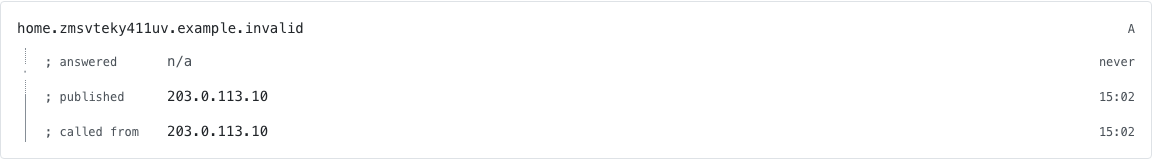
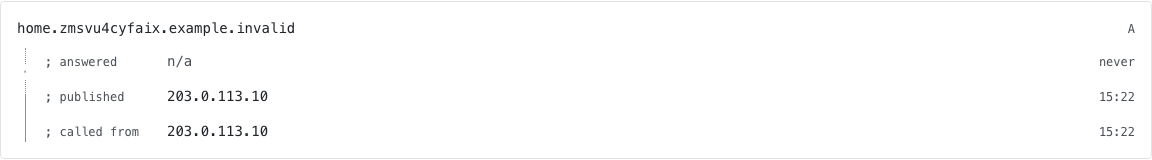
Three specs were waiting on this harness; running them found four things
Rebased onto `0e5885a` — #88, #89 and #90 all landed underneath — and the
three specs those issues wrote against this harness but could not run are now
collected and green. That was the real acceptance test of the convention, and
it produced four findings, three of them adaptations and one of them a guard
this repo already knew it needed everywhere else.

**1. `check-bundle-fresh`, and the run that made the case for it.** A plain
`docker compose up -d --build` built an image carrying the newly merged UI,
tagged it, and left the containers running the previous one. Six specs failed
against a UI that was correct and merged; the served bundle was 801,320 bytes
where the image held 815,012. This is `check-fresh`'s missing fourth guard —
`tests/`, `backend/` and the installed package each have one, and the host
bundle, which is baked into the same image the same way, had none. It hashes
the file inside the image with the container's own interpreter and the bytes
served over the published port with the host's, prints both digests on a
mismatch, and `e2e-up` also `--force-recreate`s api and worker so the
detection has a prevention in front of it. Proved to bite by appending seven
bytes to the served file: `815012` vs `815020`, refused.

Worth stating plainly: the specs caught it only because they exercised the new
markup. Had they not, the run would have been **green about the wrong bundle**.

**2. `loginAsSuperAdmin` was missing.** #90's spec imports it; atrium's
[…]

Changed region(s): [[0.0625, 0.125, 0.2812, 0.2188], [0.9688, 0.8125, 1.0, 0.8438], [0.9688, 0.5938, 1.0, 0.625]]

diff --git a/frontend/tests-e2e/resolution-strip.spec.ts b/frontend/tests-e2e/resolution-strip.spec.ts
@@ -14,6 +14,10 @@ import {
   uniqueDeviceName,
   uniqueZoneName,
 } from './helpers';
+import {
+  PUBLISHES_NOWHERE,
+  WIRE_CONSEQUENCE,
+} from '../src/tenant/ZoneStatus';
 
 /**
  * Spec 2 of the floor, and the one this milestone exists for: the
@@ -63,6 +67,13 @@ test.describe('the §3.3.1 walk, through the UI', () => {
     const fqdn = `home.${zone}`;
 
     // --- 1. a zone, through the UI ---------------------------------
+    //
+    // Deliberately with **no** provider, which since #88 is a departure
+    // from the form's own reading order rather than the thing that
+    // happens when you fill in the only field on offer: the link has to
+    // be taken and the consequence confirmed. The walk takes it because
+    // the provider it needs is not one the catalogue offers (see step
+    // 2), and because the zero-provider state is worth rendering once.
     await page.goto(DOMAINS_PATH);
     await expect(page.getByTestId('domains-empty')).toBeVisible({
       timeout: 15_000,
@@ -71,22 +82,41 @@ test.describe('the §3.3.1 walk, through the UI', () => {
     const zoneModal = page.getByRole('dialog');
     await expect(zoneModal).toBeVisible();
     await zoneModal.getByTestId('zone-name').fill(zone);
-    await zoneModal.getByTestId('zone-submit').click();
+    // Neither the consequence nor its confirm button exists until the
+    // link is taken.
+    await expect(zoneModal.getByTestId('zone-later-warning')).toHaveCount(0);
+    await zoneModal.getByTestId('zone-later-link').click();
+    await expect(zoneModal.getByTestId('zone-later-warning')).toBeVisible();
+    await zoneModal.getByTestId('zone-later-submit').click();
+    await expect(page.getByRole('dialog')).toHaveCount(0);
 
     const zoneRow = page.getByTestId(`domain-${zone}`);
     await expect(zoneRow).toBeVisible();
-    // §10.1: a zone with no provider is the *exceptional* row, stated
-    // in the operator's terms rather than the protocol's. This is that
-    // sentence, rendered — the state the create form can leave behind
-    // in one click.
-    await expect(zoneRow).toContainText(
-      'No provider bound yet — updates for this zone answer 911.',
+    // §10.1: a zone with no provider is the *exceptional* row, in the
+    // operator's terms rather than the protocol's. Asserted against
+    // `ZoneStatus`'s own exported strings — a spec that retyped them
+    // would keep passing after the product stopped saying them.
+    await expect(zoneRow).toHaveAttribute('data-diverged', 'true');
+    await expect(page.getByTestId(`nowhere-${zone}`)).toContainText(
+      PUBLISHES_NOWHERE,
+    );
+    await expect(page.getByTestId(`nowhere-why-${zone}`)).toContainText(
+      WIRE_CONSEQUENCE,
+    );
+    await expect(page.getByTestId(`providers-${zone}`)).toHaveText(
+      '0 providers',
     );
 
     // --- 2. the provider ------------------------------------------
+    // On the zone's own route since #88 — §12's linkable destination,
+    // reached the way an operator reaches it, by clicking the zone.
+    await page.getByTestId(`open-domain-${zone}`).click();
+    await expect(page.getByTestId(`zone-${zone}`)).toBeVisible();
+    await expect(page.getByTestId('zone-no-providers')).toBeVisible();
+
     // The modal, opened and read: it is the surface an operator uses,
     // and the catalogue it offers is a property of the build.
-    await page.getByTestId(`add-backend-${zone}`).click();
+    await page.getByTestId('zone-add-backend').click();
     const providerModal = page.getByRole('dialog');
     await expect(providerModal).toBeVisible();
     await providerModal.getByTestId('backend-service').click();
@@ -113,12 +143,24 @@ test.describe('the §3.3.1 walk, through the UI', () => {
     const binding = await bindScriptedBackend(page.request, domainId!);
     expect(binding.credentials_set).toBe(true);
 
-    // …and read back through the UI, which is what an operator sees.
+    // …and read back through the UI, which is what an operator sees:
+    // on the zone's route, and — the mark being a *measurement* rather
+    // than a decoration — gone from the list row.
     await page.reload();
-    await expect(zoneRow.getByTestId(`backend-${binding.backend_type}`))
-      .toBeVisible();
-    await expect(zoneRow).toContainText('credential stored');
-    await expect(zoneRow).not.toContainText('No provider bound yet');
+    await expect(
+      page.getByTestId(`backend-${binding.backend_type}`),
+    ).toBeVisible();
+    await expect(page.getByTestId(`credentials-${binding.id}`)).toHaveText(
+      'credential stored',
+    );
+    await expect(page.getByTestId('zone-no-providers')).toHaveCount(0);
+
+    await page.goto(DOMAINS_PATH);
+    await expect(zoneRow).toHaveAttribute('data-diverged', 'false');
+    await expect(page.getByTestId(`nowhere-${zone}`)).toHaveCount(0);
+    await expect(page.getByTestId(`providers-${zone}`)).toHaveText(
+      '1 provider',
+    );
 
     // --- 3. a device, through the UI ------------------------------
     await page.goto(DEVICES_PATH);
@@ -152,10 +194,15 @@ test.describe('the §3.3.1 walk, through the UI', () => {
     const nameModal = page.getByRole('dialog');
     await expect(nameModal).toBeVisible();
     await chooseFromSelect(page, 'hostname-zone', zone);
-    await nameModal.getByTestId('hostname-name').fill(fqdn);
+    // Since #90 the zone is a suffix and not a retype: the bare label
+    // goes in the field, the zone is rendered beside it, and `will
+    // send:` is the one line that shows what composition did.
+    await expect(nameModal.getByTestId('hostname-suffix')).toHaveText(
+      `.${zone}`,
+    );
+    await nameModal.getByTestId('hostname-name').fill('home');
     await chooseFromSelect(page, 'hostname-device', deviceName);
-    // The preview is the one line that shows what will be sent.
-    await expect(nameModal.getByTestId('hostname-preview')).toContainText(fqdn);
+    await expect(nameModal.getByTestId('hostname-will-send')).toHaveText(fqdn);
     await nameModal.getByTestId('hostname-submit').click();
     await expect(page.getByTestId(`hostname-${fqdn}`)).toBeVisible();
 

diff --git a/frontend/tests-e2e/zone-provider.spec.ts b/frontend/tests-e2e/zone-provider.spec.ts
@@ -101,6 +101,13 @@ test.describe('#88 — zones and providers are one object', () => {
     // reading order — §10.1's wireframe, rendered.
     await modal.getByTestId('zone-name').fill(zone);
     await expect(modal.getByTestId('backend-service')).toBeVisible();
+    // Pick the provider explicitly. `BackendForm` defaults to
+    // `providers[0]`, and `known_services()` is **sorted**, so the
+    // default is `hetzner` — whose one credential key is
+    // `hetzner_api_token`, not the route53 pair below. Adjusted by #91
+    // when this spec was first run: it is a fact about the catalogue's
+    // order, which nothing in the file could have known unrun.
+    await chooseFromSelect(page, 'backend-service', 'route53');
     // The credential fields come from `GET /providers`, i.e. from
     // `BaseProvider.REQUIRED_CREDENTIALS`. This is `BackendForm`, not a
     // create-only copy of it.
@@ -245,6 +252,9 @@ test.describe('#88 — zones and providers are one object', () => {
     const second = page.getByRole('dialog');
     await expect(second).toBeVisible();
     await second.getByTestId('zone-name').fill(zoneWorking);
+    // Same reason as above: the default provider is the catalogue's
+    // first, sorted, which is not route53.
+    await chooseFromSelect(page, 'backend-service', 'route53');
     for (const [key, value] of Object.entries(DEMO_CREDENTIAL)) {
       await second.getByTestId(`credential-${key}`).fill(value);
     }

diff --git a/frontend/tests-e2e/helpers.ts b/frontend/tests-e2e/helpers.ts
@@ -108,9 +108,27 @@ async function syncCookies(page: Page): Promise<void> {
 }
 
 /** Log in as the seeded super_admin. */
-export async function loginAsAdmin(page: Page): Promise<void> {
+export async function loginAsSuperAdmin(page: Page): Promise<void> {
   const { email, password, totpSecret } = requiredAdminEnv();
   await loginAndPassTOTP(page, email, password, totpSecret);
+}
+
+/**
+ * Alias of {@link loginAsSuperAdmin} for specs whose dependency is "any
+ * admin who holds the permission" rather than super-admin specifically.
+ * `make e2e-up` seeds one account holding both roles, so the two are
+ * indistinguishable at the API level and the alias only keeps a spec's
+ * intent readable.
+ *
+ * Both names exist because atrium's `helpers.ts` exports both, and the
+ * point of copying its vocabulary is that a spec written against one
+ * harness compiles against the other. That was not free advice: #90's
+ * `hostname-suffix.spec.ts` was written against `loginAsSuperAdmin`,
+ * this file shipped only `loginAsAdmin`, and `tsc` refused it the first
+ * time the two met.
+ */
+export async function loginAsAdmin(page: Page): Promise<void> {
+  await loginAsSuperAdmin(page);
 }
 
 export interface ProvisionedUser {

diff --git a/frontend/tests-e2e/hostname-suffix.spec.ts b/frontend/tests-e2e/hostname-suffix.spec.ts
@@ -48,10 +48,17 @@ test.describe('the name field composes, and the server validates', () => {
     const created = await page.request.post(`${API_URL}/atrium_ddns/domains`, {
       data: { name: ZONE },
     });
+    // 201 the first time, 409 for every test after it: `ZONE` is
+    // file-scoped and `ddns_domain.name` is unique across the whole
+    // installation, so the second `beforeEach` re-claims a zone this
+    // file already owns. Both are the intended state; anything else
+    // (422, 403) still fails, and the body is named either way.
+    // Adjusted by #91 on this spec's first actual run — a defect that
+    // only exists once there is something to run it.
     expect(
-      created.status(),
-      `zone claim failed: ${await created.text()}`,
-    ).toBe(201);
+      [201, 409],
+      `zone claim failed: ${created.status()} ${await created.text()}`,
+    ).toContain(created.status());
     // `NAMES_PATH` in `src/HostnamesPage.tsx`. Written out rather than
     // imported: `tsconfig.json` scopes type checking to `src`, so a
     // spec importing from it would be the one file in the tree the gate

diff --git a/docs/ops/overnight-template.md b/docs/ops/overnight-template.md
@@ -51,7 +51,7 @@ pnpm test                          # vitest — 2 passed (2)
 cd .. && make up && make migrate    # both alembic chains to head
 make test-backend                  # host tests 532 passed + compat 31 passed, 3 skipped
 make smoke PASS=<pw> EMAIL=<addr>  # scripts/smoke.sh — 11 passed (11)
-make test-e2e                      # Playwright — 5 passed (5), ~11s after the stack is up
+make test-e2e                      # Playwright — 16 passed (5 spec files), ~35s once the stack is up
 ```
 
 **`make test-e2e` is in the gate from #91, and it is the only instrument
@@ -81,6 +81,21 @@ never in the alpine builder stage; and `pnpm` v10 does not run dependency
 build scripts, so installing `@playwright/test` downloads **no** browser —
 `pnpm exec playwright install chromium` is the explicit step, and it is
 what `make e2e-deps` is for.
+
+**And a third, which is `check-fresh`'s missing fourth guard.** `make e2e-up`
+now ends in `make check-bundle-fresh`, because the host bundle is baked into
+the image exactly like `tests/`, `backend/` and the installed package are —
+and it had no guard. Measured on 2026-08-16: a plain `docker compose up -d
+--build` built an image carrying a newly merged UI, tagged it, and left the
+containers on the previous one. Six specs failed against a UI that was
+correct and merged, the served bundle read 801,320 bytes where the image
+held 815,012, and the only reason it was caught in minutes rather than
+argued about for an hour is that the specs were exercising the new markup.
+**Had they not been, the run would have been green about the wrong bundle.**
+The guard hashes the file inside the image with the container's interpreter
+and the bytes served over the published port with the host's, and names both
+digests when they differ; `e2e-up` also `--force-recreate`s api and worker,
+which is the prevention to the guard's detection.
 
 `make test-backend` grew a second pytest session (#23): the compat suites now
 reach the image via `COPY tests /opt/compat_tests` in the Dockerfile's **`dev`

diff --git a/README.md b/README.md
@@ -112,12 +112,11 @@ make test-e2e        # Playwright, in a real browser (raises its own stack)
 
 `make test-e2e` is the only one of these that renders anything. It raises
 the stack (with `ATRIUM_DDNS_COMPAT_STUB=1`, which the walk needs),
-migrates it, seeds an admin and the host bundle, installs chromium and runs
-`frontend/tests-e2e/` — three specs: the nav items render, the
-`docs/ops/ui-parity.md` §3.3.1 walk driven by clicking and ending in a
-rendered resolution strip, and one negative. Add `PLAYWRIGHT_ARGS='--grep
-nav'` to narrow it, and `make e2e-down` to delete the stack and its
-database volume.
+migrates it, seeds an admin and the host bundle, checks that the bundle the
+stack *serves* is the one in the image it was built from
+(`make check-bundle-fresh`), installs chromium and runs
+`frontend/tests-e2e/`. Add `PLAYWRIGHT_ARGS='--grep nav'` to narrow it, and
+`make e2e-down` to delete the stack and its database volume.
 
 The strip screenshot the walk writes on every run is
 `frontend/test-results/resolution-strip.png` (gitignored); the copy in
